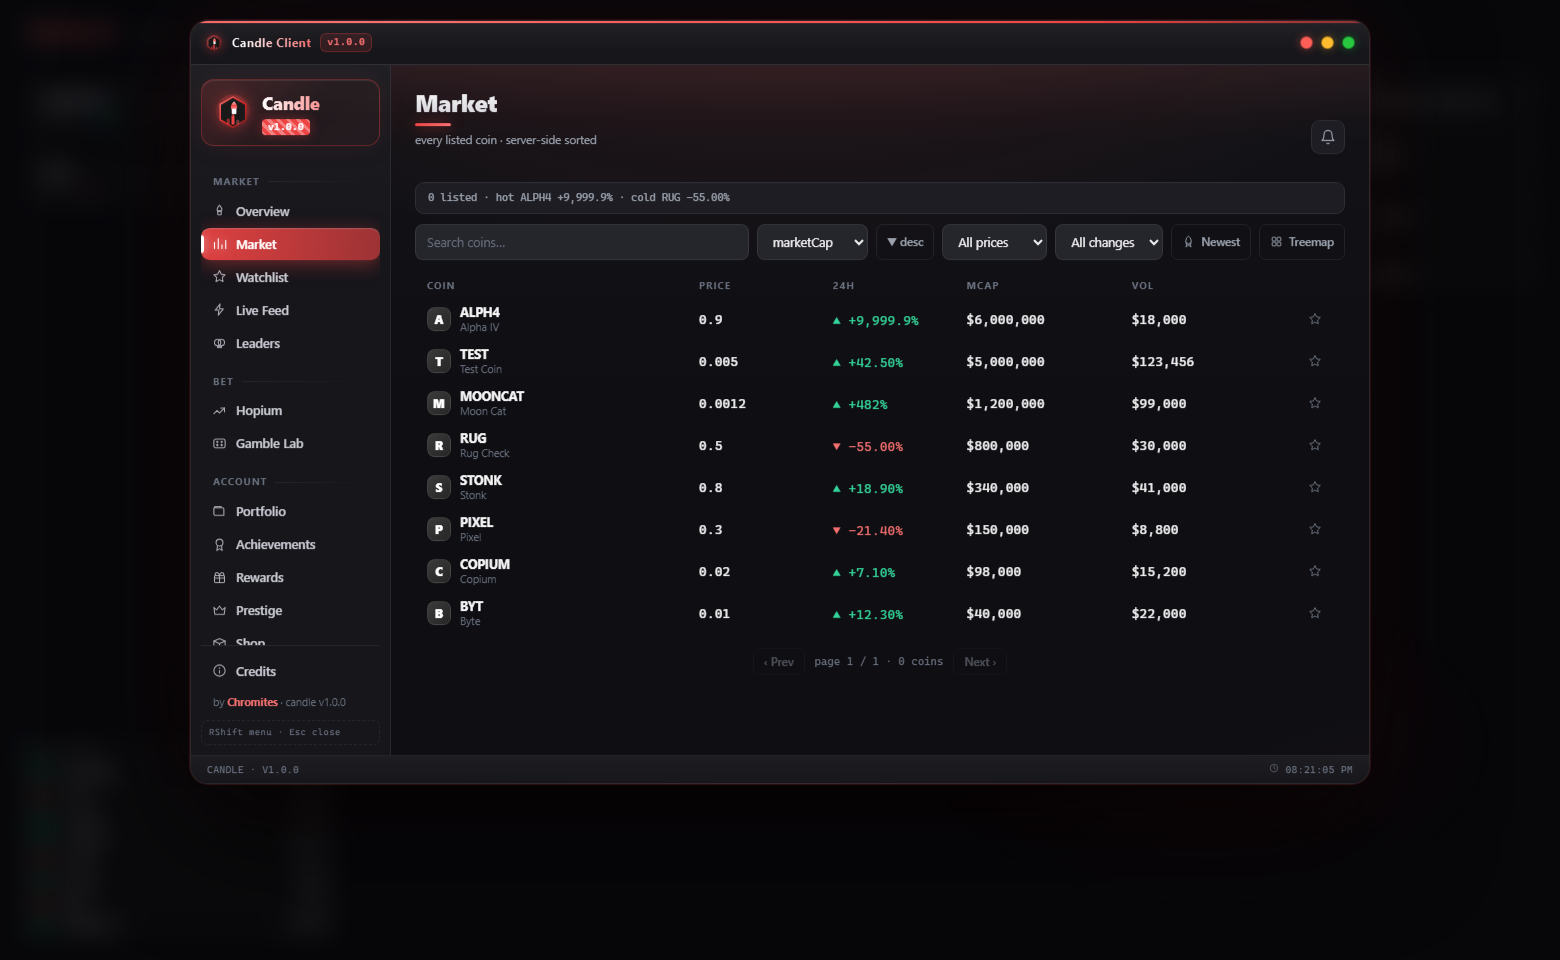
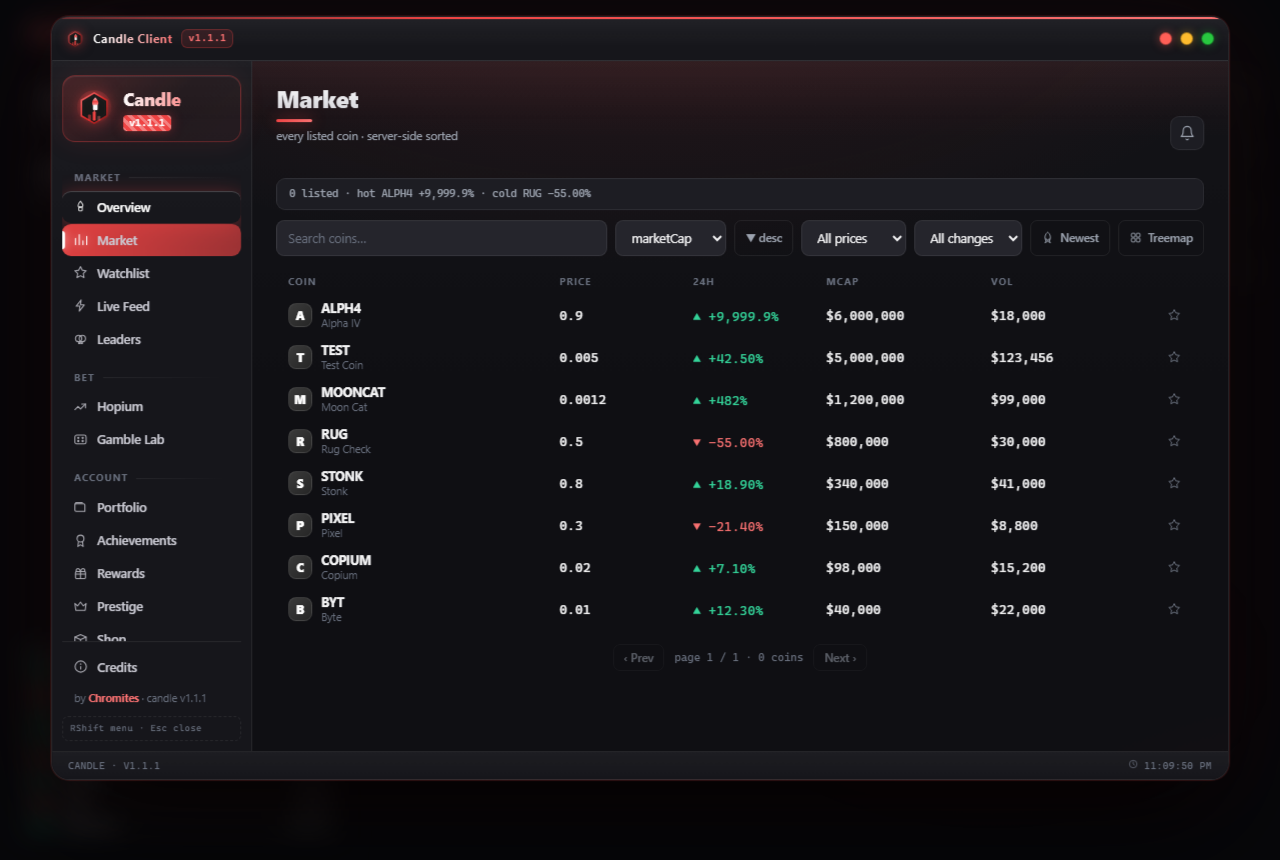
README: fresh screenshots and the 1.1.1 update
Adds the Social view and coin-transfer screenshots, updates the
version to 1.1.1, and documents coin transfers in the feature copy.

diff --git a/build-preview.js b/build-preview.js
@@ -184,8 +184,33 @@ ${body}
        'sitefeed', 'sitehopium', 'siteleader', 'siteach', 'siterewards', 'sitekeys', 'sitearcade', 'sitetransfers']
         .forEach((m) => C.setMod(m, true));
       C.open();
-      const v = new URLSearchParams(location.search).get('view') || 'overview';
+      const qs = new URLSearchParams(location.search);
+      const v = qs.get('view') || 'overview';
       if (C.setView) C.setView(v);
+      // screenshot hook: ?shot=transfer drives the coin-transfer modal open
+      if (qs.get('shot') === 'transfer') {
+        setTimeout(() => {
+          try {
+            localStorage.setItem('candle:friends', JSON.stringify([{ username: 'apex', tag: 'Friend', addedAt: Date.now() }]));
+          } catch (e) { /* ignore */ }
+          C.setView('social');
+          setTimeout(() => {
+            const root = document.getElementById('candle-host') && document.getElementById('candle-host').shadowRoot;
+            const send = root && root.querySelector('.rank-actions .btn[title="Send BUSS"]');
+            if (send) send.click();
+            setTimeout(() => {
+              const chips = root && root.querySelectorAll('.chip');
+              let coinChip = null;
+              if (chips) chips.forEach((c) => { if (c.textContent.includes('Coin')) coinChip = c; });
+              if (coinChip) coinChip.click();
+              setTimeout(() => {
+                const coinIn = root && root.querySelector('.modal input[placeholder*="Coin symbol"]');
+                if (coinIn) { coinIn.value = 'MOONCAT'; coinIn.dispatchEvent(new Event('input', { bubbles: true })); }
+              }, 120);
+            }, 120);
+          }, 350);
+        }, 300);
+      }
     }, 150);
   });
 </script>

diff --git a/README.md b/README.md
@@ -4,7 +4,7 @@
 
 Candle Client is a Tampermonkey userscript that turns rugplay.com into a proper trading terminal. It floats a full client over the site with market data, trade analytics, a social layer, and 205 mods in 13 categories. Every mod runs on RugPlay's real API and its real platform rules. Nothing in here is mocked, simulated, or fabricated.
 
-Built by Chromites. Version 1.1.0. Free to use.
+Built by Chromites. Version 1.1.1. Free to use.
 
 <p align="center">
   <a href="https://github.com/ChromiteDev/rugplay-candle-client/releases"><img src="https://img.shields.io/github/v/release/ChromiteDev/rugplay-candle-client?label=version&color=e11d48" alt="Version"></a>
@@ -17,6 +17,14 @@ Built by Chromites. Version 1.1.0. Free to use.
 ![Candle Client overview](screens/menu-overview.png)
 
 ## Screenshots
+
+The Social view: ranks, mentions, and messages on real endpoints.
+
+![The Social view with friend ranks](screens/menu-social.png)
+
+Hidden coin transfers: the site UI only exposes cash, the real endpoint takes coins too.
+
+![Coin transfer modal with live price](screens/menu-transfer.png)
 
 ![Market view with treemap and analytics](screens/menu-market.png)
 
@@ -35,6 +43,8 @@ The client opens instantly. All 205 mods start disabled. Turn on the ones you wa
 The menu has fifteen views: Overview, Market, Watchlist, Live Feed, Leaders, Hopium, Gamble Lab, Portfolio, Achievements, Rewards, Prestige, Shop, Account, Social, and Mods. It presents like a desktop application, not a userscript. There is a sidebar, a live status bar, notifications, five accent colors, and auto, dark, or light themes.
 
 The Social view adds the platform's real social layer: tag traders as Friend, Whale, Watch, or Rival, read your mention inbox, and message anyone by posting a comment with an @mention. Coin comments are RugPlay's chat, and mentions generate real server notifications.
+
+Transfers go both ways. Cash carries the usual 1% fee; coins move with none. The site never exposes coin transfers, but the endpoint accepts them, so the client sends tokens with live price estimation and a $10 minimum value check, straight from the real rules.
 
 ## The mods
 
